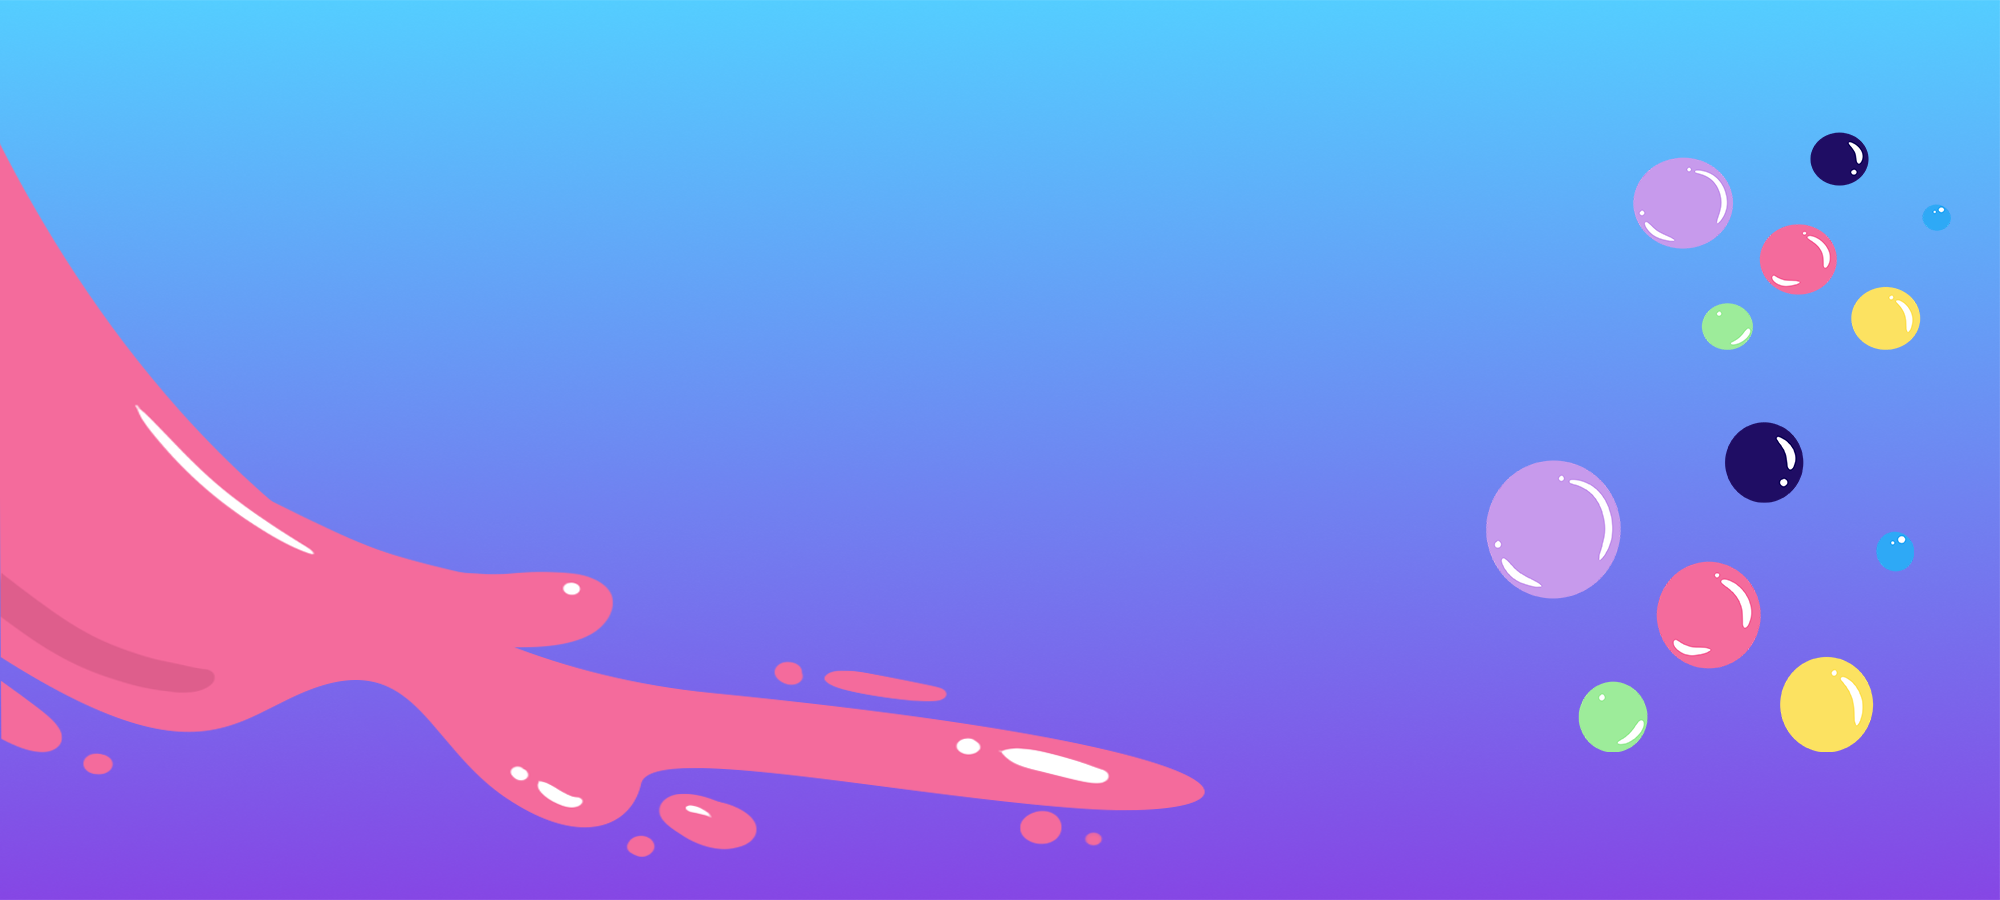
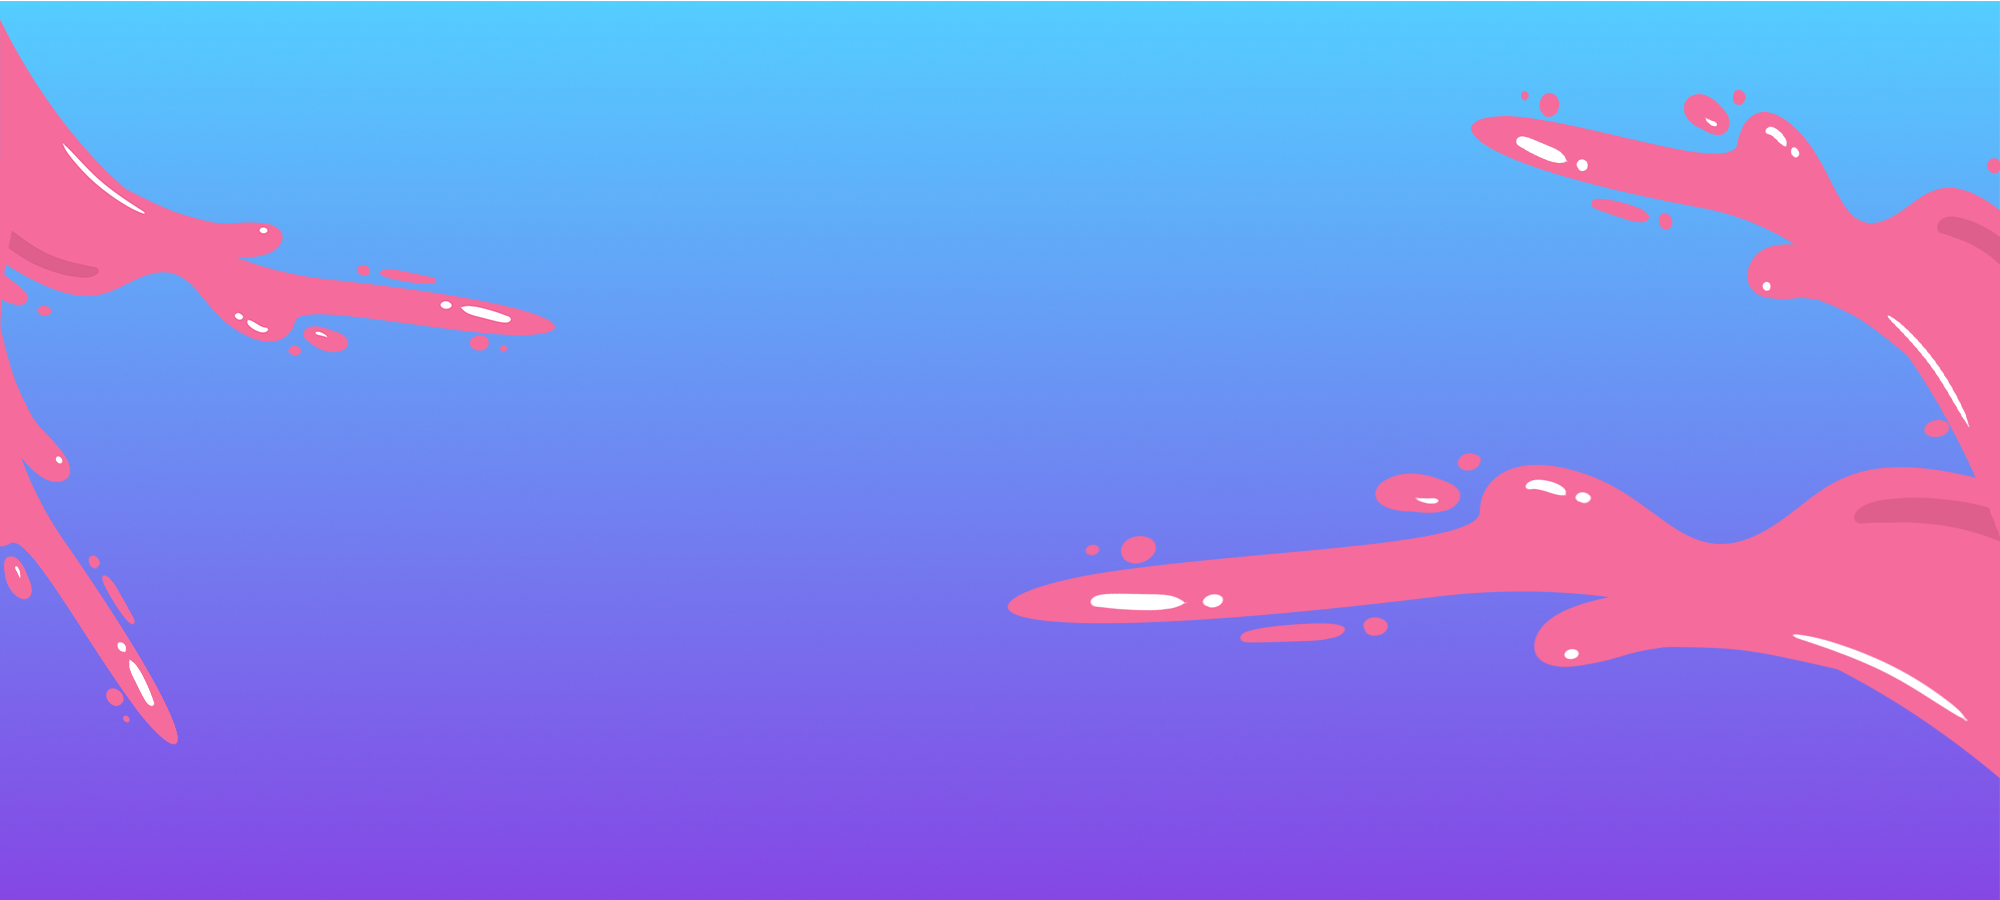
Changed Background for Sysdev Page

Changed region(s): [[0.0, 0.0311, 0.62, 0.9644], [0.496, 0.0933, 1.0, 0.8711], [0.031, 0.84, 0.062, 0.8711]]

diff --git a/src/components/SysDevPage/SysDevPage.jsx b/src/components/SysDevPage/SysDevPage.jsx
@@ -10,6 +10,8 @@ const SysDevPage = () => {
   return (
     <div className={styles["Container"]}>
       <Navbar />
+      <TribalDivider />
+
       <div className={styles["Title"]}> 
           <h3> SAMAHAN </h3>
           <h1>Systems Development Team</h1>
@@ -42,7 +44,6 @@ const SysDevPage = () => {
         />
         </div>
       </div>
-      <TribalDivider />
       <div className={`${styles["row-container"]} ${styles["two"]}`}>
         <div className={styles["Row"]}>
         <InfoCard
@@ -69,7 +70,6 @@ const SysDevPage = () => {
         />
         </div>
       </div>
-      <TribalDivider />
       <div className={`${styles["row-container"]} ${styles["three"]}`}>
         <div className={styles["Row"]}>
         <InfoCard
@@ -96,7 +96,6 @@ const SysDevPage = () => {
         />
         </div>
       </div>
-      <TribalDivider />
       <Footer />
 
     </div>

diff --git a/src/components/SysDevPage/SysDevPage.module.scss b/src/components/SysDevPage/SysDevPage.module.scss
@@ -37,20 +37,19 @@
     background-color: $color--white;
     position: relative;
     background-color: #54CDFF;
-    height: 45rem;
     &.one {
         background-image: url('/assets/sysdev-bg-orange.png');
-        background-size: contain;
+        background-size: cover;
         background-repeat: no-repeat;
     }
     &.two {
         background-image: url('/assets/sysdev-bg-star.png');
-        background-size: contain;
+        background-size: cover;
         background-repeat: no-repeat;
     }
     &.three {
         background-image: url('/assets/sysdev-bg-pink.png');
-        background-size: contain;
+        background-size: cover;
         background-repeat: no-repeat;
     }
 }
